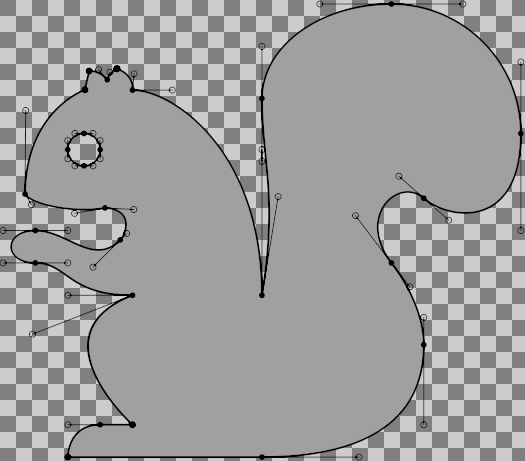
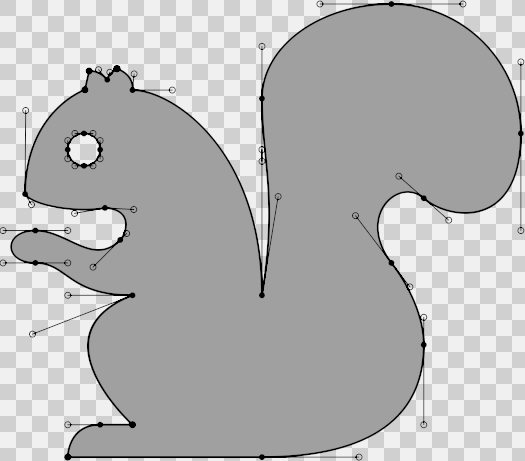
[example][rasterize] use lighter patter

diff --git a/examples/rasterize.rs b/examples/rasterize.rs
@@ -277,12 +277,12 @@ fn main() -> Result<(), Error> {
             let scene = Scene::group(vec![
                 Scene::fill(
                     Arc::new(Path::builder().checkerboard(bbox, 16.0).build()),
-                    Arc::new("#808080".parse::<LinColor>()?),
+                    Arc::new("#d0d0d0".parse::<LinColor>()?),
                     FillRule::EvenOdd,
                 ),
                 scene,
             ]);
-            (scene, "#cccccc".parse()?)
+            (scene, "#f0f0f0".parse()?)
         }
         Some(bg) => (scene, bg),
     };
